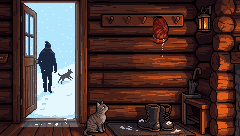
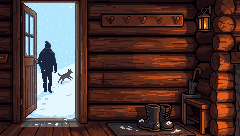
Fire and lamps light the rooms after dark, real lantern sprite, headlamp only in storms, clean leaving still
Claude-Session: https://claude.ai/code/session_01MJHAbDc8GE5C3zMaFTW5Js

Changed region(s): [[0.3208, 0.7353, 0.4667, 1.0], [0.6125, 0.0882, 0.7292, 0.3529]]

diff --git a/src/actors.js b/src/actors.js
@@ -99,10 +99,10 @@
   // head: where his forehead is in this scene's sprite, so the headlamp sits on his beanie
   SE.travelerLight = function (ctx, x, y, dir = 1, scale = 1, head = null) {
     const W = SE.weather, n = W.night();
-    const heavy = W.stormy() || W.mode === 'windy' || W.mode === 'snowy';
-    const fl = 0.9 + 0.1 * Math.sin(SE.time * 9) * Math.sin(SE.time * 3.7);
-    if (heavy && (n > 0.25 || W.stormy())) {
-      const hx = head ? head.x : x, hy = head ? head.y : y - 14 * scale, k = W.stormy() ? 1 : SE.clamp(n * 1.4, 0, 1);
+    // the headlamp only comes out in a real snowstorm; any other night he carries the oil lantern
+    const heavy = W.stormy();
+    if (heavy) {
+      const hx = head ? head.x : x, hy = head ? head.y : y - 14 * scale, k = 1;
       ctx.save(); ctx.globalCompositeOperation = 'lighter';
       const g = ctx.createLinearGradient(hx, hy, hx + dir * 120 * scale, hy + 30 * scale);
       g.addColorStop(0, `rgba(235,240,255,${0.32 * k})`); g.addColorStop(1, 'rgba(235,240,255,0)');
@@ -118,14 +118,18 @@
     }
     if (n < 0.35) return;
     const k = SE.clamp((n - 0.35) * 2.5, 0, 1);
-    const sw = Math.sin(SE.time * 2.4) * 1.2; // the lantern swings a little as he walks
+    const calm = 0.96 + 0.04 * Math.sin(SE.time * 2.3) * Math.sin(SE.time * 1.3); // a steady, calm flame
+    const im = SE.img('props/lantern'), s = scale >= 0.9 ? 1 : 0.5;
+    const sw = s < 1 ? Math.sin(SE.time * 1.6) * 0.8 : 0; // carried on the map it sways a little; set down it stands still
     const lx = Math.round(x + sw), ly = Math.round(y);
-    SE.glow(ctx, lx, ly, 60 * scale * fl, '255,170,90', 0.24 * k);
-    SE.glow(ctx, lx, ly, 14 * scale * fl, '255,220,150', 0.55 * k);
-    // the lantern itself: a little brass frame with a flame
-    ctx.fillStyle = '#3a2a1e'; ctx.fillRect(lx - 1, ly - 3, 3, 1); ctx.fillRect(lx - 2, ly - 2, 1, 4); ctx.fillRect(lx + 2, ly - 2, 1, 4); ctx.fillRect(lx - 1, ly + 2, 3, 1);
-    ctx.fillStyle = '#ffd27a'; ctx.fillRect(lx - 1, ly - 2, 3, 4);
-    ctx.fillStyle = '#fff4d0'; ctx.fillRect(lx, ly - 1, 1, 2);
+    // the lantern itself (its flame sits at 10,18 in the sprite), then the soft light it throws
+    if (im) {
+      const w = Math.round(im.width * s), h = Math.round(im.height * s);
+      ctx.save(); ctx.imageSmoothingEnabled = false; ctx.globalAlpha = 0.5 + 0.5 * k;
+      ctx.drawImage(im, lx - Math.round(10 * s), ly - Math.round(18 * s), w, h); ctx.restore();
+    }
+    SE.glow(ctx, lx, ly, 64 * scale * calm, '255,176,96', 0.22 * k * calm);
+    SE.glow(ctx, lx, ly, 16 * scale * calm, '255,214,150', 0.4 * k * calm);
   };
 
   // Lit windows after dark: drawn AFTER the night tint, so the warm panes keep their full colour and

diff --git a/src/scenes/kitchen.js b/src/scenes/kitchen.js
@@ -82,14 +82,29 @@
     draw(ctx, dt) {
       SE.drawImg('bg_kitchen', 0, 0);
       SE.weather.windows(ctx, WINDOWS);
-      SE.weather.interior(ctx);
       const flick = 0.8 + 0.15 * Math.sin(SE.time * 8) + 0.05 * Math.random();
       const heat = SE.save.stove, night = SE.weather.night();
-      if (heat < 0.12) { ctx.fillStyle = 'rgba(20,12,14,0.6)'; ctx.fillRect(374, 178, 50, 34); }
-      SE.glow(ctx, 398, 196, (20 + 30 * heat) * flick, '255,140,60', (0.08 + 0.22 * heat) * flick);
       // the lanterns are only lit after dusk; in daylight they stand there cold
       const lit = SE.clamp((night - 0.3) * 4, 0, 1);
+      // the oven fire is the room's main light: after dark everything away from it and the lanterns sinks into shadow
+      SE.weather.interior(ctx, [
+        { x: 398, y: 205, r: 70 + 120 * heat, k: heat > 0.12 ? (0.55 + 0.4 * heat) * flick : 0 },
+        { x: 463, y: 140, r: 85, k: 0.85 * lit * flick },
+        { x: 167, y: 186, r: 80, k: 0.85 * lit * flick },
+      ]);
+      if (heat < 0.12) { ctx.fillStyle = 'rgba(20,12,14,0.6)'; ctx.fillRect(374, 178, 50, 34); }
+      else {
+        // the flames behind the glass flicker and burn bright
+        ctx.save(); ctx.globalCompositeOperation = 'lighter';
+        ctx.globalAlpha = (0.25 + 0.35 * heat) * flick * (0.7 + 0.3 * night);
+        const g = ctx.createRadialGradient(398, 202, 1, 398, 202, 26);
+        g.addColorStop(0, 'rgba(255,214,120,1)'); g.addColorStop(0.6, 'rgba(255,130,40,0.6)'); g.addColorStop(1, 'rgba(255,90,20,0)');
+        ctx.fillStyle = g; ctx.fillRect(374, 178, 50, 34); ctx.restore();
+      }
       if (lit < 1 && SE.img('props/kitchen_unlit')) { ctx.save(); ctx.globalAlpha = 1 - lit; SE.drawImg('props/kitchen_unlit', 0, 0); ctx.restore(); }
+      // warm light thrown out of the firebox: on the floor in front and up the stove pipe
+      SE.glow(ctx, 398, 200, (34 + 50 * heat) * flick, '255,140,60', (0.12 + 0.3 * heat) * flick);
+      if (heat > 0.12) SE.glow(ctx, 398, 250, (40 + 50 * heat) * flick, '255,150,70', (0.08 + 0.18 * heat) * flick);
       SE.glow(ctx, 463, 140, 30, '255,200,120', (0.14 + night * 0.12) * flick * lit);
       SE.glow(ctx, 167, 186, 30, '255,200,120', (0.12 + night * 0.12) * flick * lit);
       // steam from the pot on the stove

diff --git a/src/weather.js b/src/weather.js
@@ -229,13 +229,36 @@
     W.draw(ctx, { clip: rects, density: 0.75, windScale: 0.6 });
   };
   // Interior darkness at night (lamps and fire then glow brighter on top).
-  W.interior = function (ctx) {
+  // After dark a room gets a cool dim wash. Give it the room's light sources ({x, y, r, k}) and the
+  // dark is cut away around them, so the fire and the lamps light their corner and the rest falls
+  // into shadow.
+  const dk = document.createElement('canvas'), dx = dk.getContext('2d');
+  W.interior = function (ctx, lights) {
     const n = W.night();
     if (n < 0.01) return;
     ctx.save();
     ctx.globalCompositeOperation = 'multiply';
-    ctx.fillStyle = `rgba(70,60,110,${0.6 * n})`;
-    ctx.fillRect(0, 0, SE.W, SE.H);
+    if (!lights || !lights.length) {
+      ctx.fillStyle = `rgba(70,60,110,${0.6 * n})`;
+      ctx.fillRect(0, 0, SE.W, SE.H);
+      ctx.restore();
+      return;
+    }
+    if (dk.width !== SE.W) { dk.width = SE.W; dk.height = SE.H; }
+    dx.globalCompositeOperation = 'source-over';
+    dx.clearRect(0, 0, SE.W, SE.H);
+    dx.fillStyle = `rgba(48,40,88,${0.84 * n})`;
+    dx.fillRect(0, 0, SE.W, SE.H);
+    dx.globalCompositeOperation = 'destination-out';
+    for (const l of lights) {
+      if (!(l.k > 0.01)) continue;
+      const g = dx.createRadialGradient(l.x, l.y, 0, l.x, l.y, l.r);
+      g.addColorStop(0, `rgba(0,0,0,${Math.min(1, l.k)})`);
+      g.addColorStop(0.5, `rgba(0,0,0,${Math.min(1, l.k) * 0.55})`);
+      g.addColorStop(1, 'rgba(0,0,0,0)');
+      dx.fillStyle = g; dx.fillRect(l.x - l.r, l.y - l.r, l.r * 2, l.r * 2);
+    }
+    ctx.drawImage(dk, 0, 0);
     ctx.restore();
   };
   W.label = () => MODES[W.mode].label;

diff --git a/src/main.js b/src/main.js
@@ -14,7 +14,7 @@
     'cut/stack', 'cut/carry_in', 'cut/fire_lay', 'cut/fire_light', 'cut/bible_read', 'cut/music', 'cut/sleep', 'cut/pocket',
     'cut/pet_dog1', 'cut/pet_dog2', 'cut/pet_dog3', 'cut/pet_cat1', 'cut/pet_cat2', 'cut/pet_cat3',
     'lake_hands', 'props/woodpile', 'snow/heap_big', 'snow/heap_small', 'smoke/p0', 'smoke/p1', 'smoke/p2', 'smoke/p3', 'smoke/p4',
-    'world_ground', 'map/pine', 'map/spruce', 'map/cabin_td', 'map/mountain_td', 'map/chop_td', 'map/fishing_td', 'map/chapel_td', 'bg_chapel', 'bg_woodlot', 'bg_bedroom', 'ui/notebook', 'ui/kit', 'couch_scene', 'props/kitchen_unlit', 'bg_hall', 'cut/leave_out', 'lit/bg_cabin', 'lit/cabin_td', 'lit/chapel_td', 'bg_forest_dim']
+    'world_ground', 'map/pine', 'map/spruce', 'map/cabin_td', 'map/mountain_td', 'map/chop_td', 'map/fishing_td', 'map/chapel_td', 'bg_chapel', 'bg_woodlot', 'bg_bedroom', 'ui/notebook', 'ui/kit', 'couch_scene', 'props/kitchen_unlit', 'props/lantern', 'bg_hall', 'cut/leave_out', 'lit/bg_cabin', 'lit/cabin_td', 'lit/chapel_td', 'bg_forest_dim']
     .concat(M.images, Object.keys(M.anims))
     // each cutscene still in its other weathers and times of day (src/moments.js)
     .concat(...Object.entries(SE.CUT_VARIANTS || {}).map(([n, vs]) => vs.map((v) => `cut/${n}_${v}`)))

diff --git a/src/scenes/cabin.js b/src/scenes/cabin.js
@@ -115,7 +115,14 @@
       const dogR = SE.drawDogRest(POS.dog.x, POS.dog.y, {});
       let catR = null;
       if (mode !== 'couch' && mochi) { mochi.update(dt); catR = mochi.draw(); }
-      SE.weather.interior(ctx);
+      {
+        // after dark the fire and the reading lamp carve their light out of the room; the rest goes dim
+        const f0 = 0.25 + 0.75 * SE.save.fire, fk = 0.9 + 0.08 * Math.sin(SE.time * 9);
+        SE.weather.interior(ctx, [
+          { x: 102, y: 196, r: 110 + 120 * f0, k: SE.save.fire > 0.05 ? (0.45 + 0.5 * f0) * fk : 0.15 },
+          { x: 181, y: 136, r: 90, k: 0.75 },
+        ]);
+      }
       if (mode === 'room' && !SE.watching() && hotspot(BIBLE, 'Read the Bible')) readBible();
 
       // fire (its size follows the fire level) + lamps that matter more at night

diff --git a/docs/PROGRESS.md b/docs/PROGRESS.md
@@ -153,3 +153,8 @@
 - Bedroom: the door is painted out — a freestanding wardrobe with two potted plants beside it, no coat rack. Mochi's rug spots no longer overlap Waffles (bedroom and living room).
 - Lighting (src/lighting.js): SE.drawAnim records every character sprite drawn in a frame and SE.glow records every light (fire, lamps, lanterns, lit windows, headlamp). Before the HUD, each sprite near a light gets a rim of the light's colour on the side facing it plus a soft wash over the body, clipped to the sprite's pixels; lights a character carries don't outline himself. Outdoors after dark a faint cool moon rim falls from above. Indoors lamps/fire count by day too; outdoors only after dusk.
 - Headlamp: SE.travelerLight takes the forehead position per scene (woodlot, lake, summit, Long Walk) and draws the strap and lens on his beanie, the beam starting there. The woodlot lantern stands next to him in the snow.
+
+### Light sources, lantern, leaving still
+- Kitchen and living room after dark: `SE.weather.interior(ctx, lights)` cuts the night dim away around the room's real light sources (oven fire / fireplace, lit lanterns and lamp), so the flames visibly light their corner and the rest falls into shadow. The oven firebox gets a brighter flickering flame glow plus a warm spill on the floor.
+- Traveler's light: headlamp only in a real snowstorm; any other night he carries a PixelLab oil lantern sprite (`props/lantern.png`) with a calm, steady glow (half size on the map).
+- `cut/leave_out`: beanie removed from the hook and Mochi removed from the shot (PixelLab inpaint).
